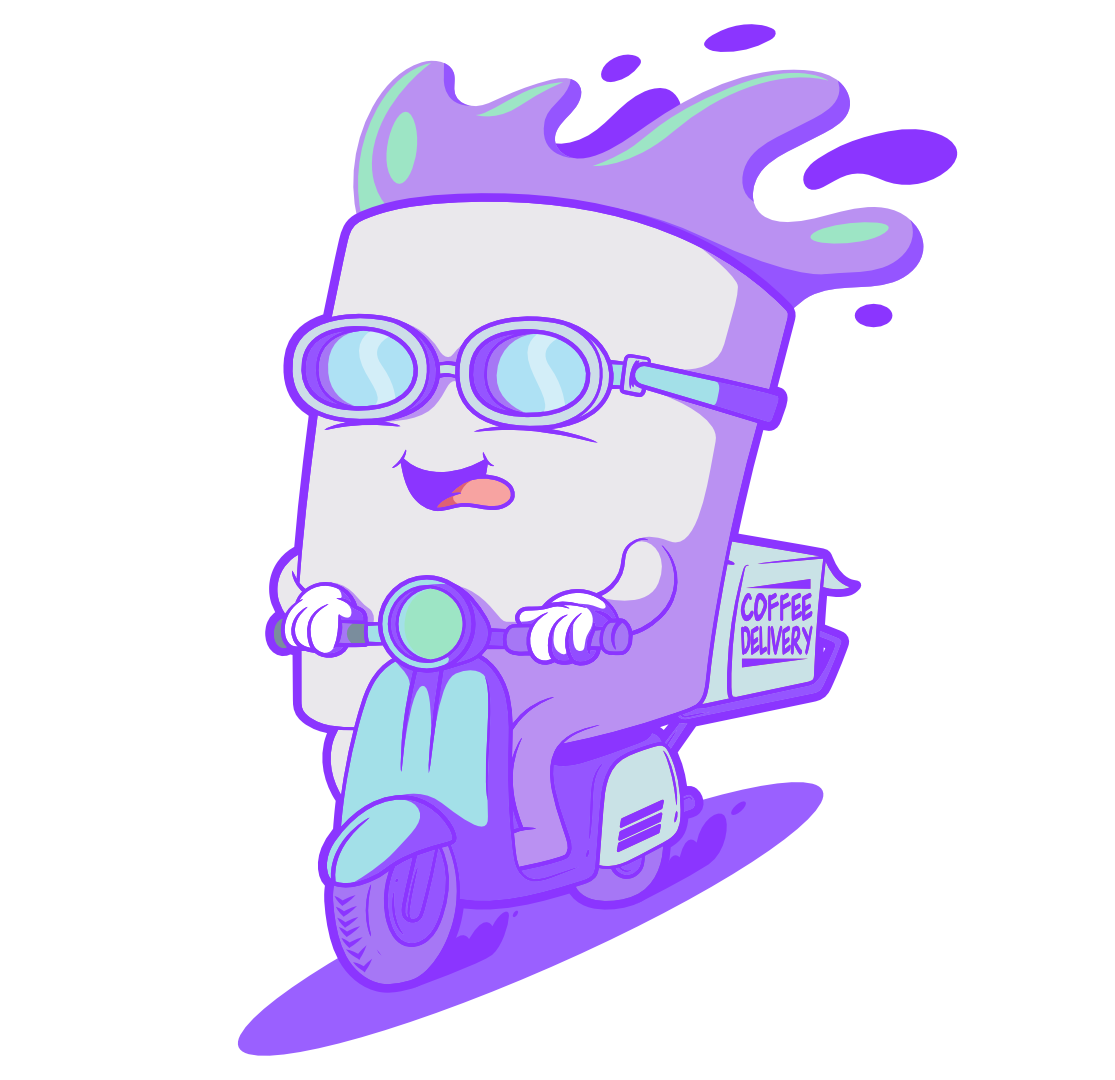
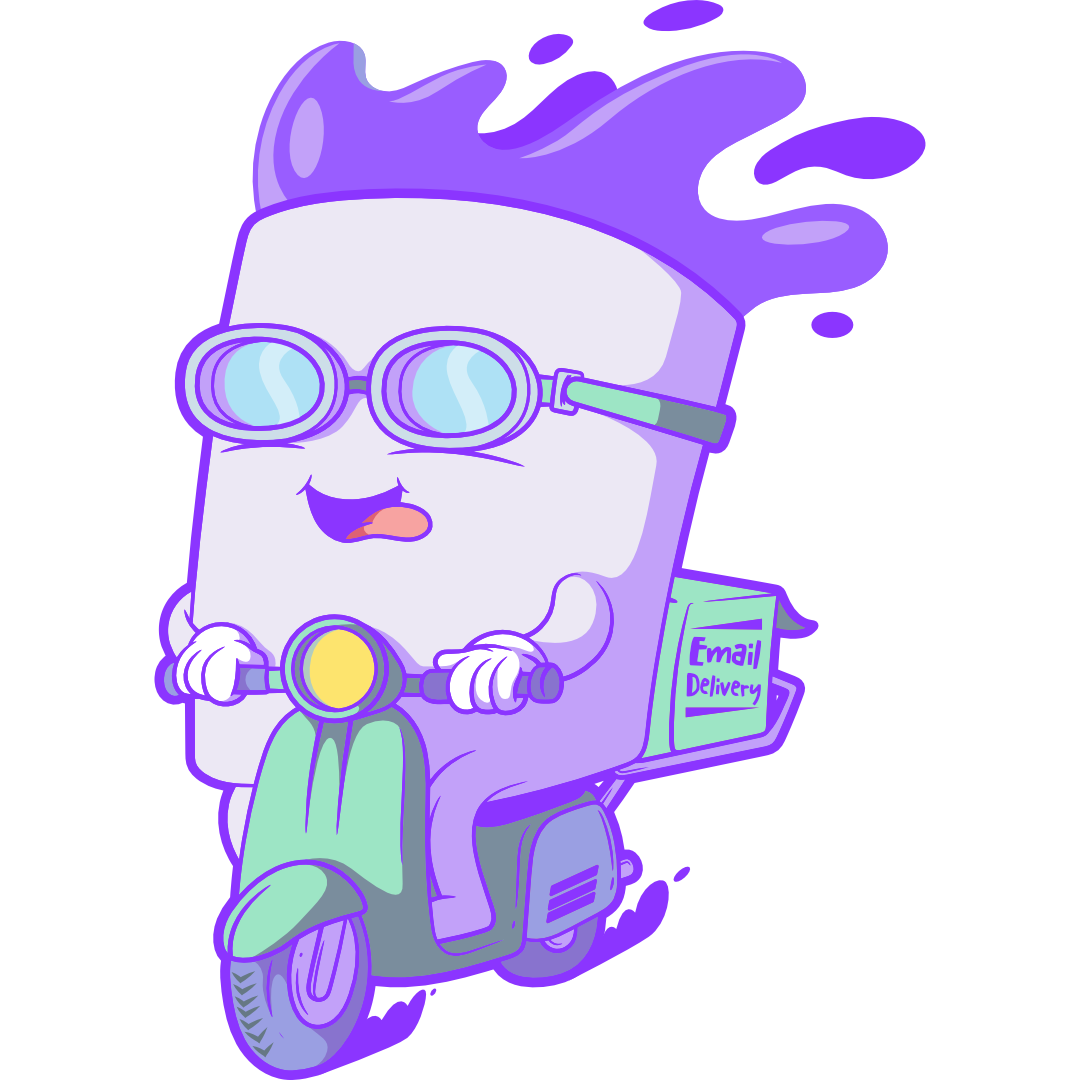
updated email sender pop up asset

diff --git a/app/components/EmailSender/EmailSender.tsx b/app/components/EmailSender/EmailSender.tsx
@@ -1,6 +1,6 @@
 import { Form } from "@remix-run/react";
 import { useEffect, useRef, useState } from "react";
-import emailPopUpAsset from "~/assets/contactAsset.png";
+import emailPopUpAsset from "~/assets/AboutmeAsset.png";
 import Button from "~/components/CustomButton/Button";
 
 export default function InputForm() {
